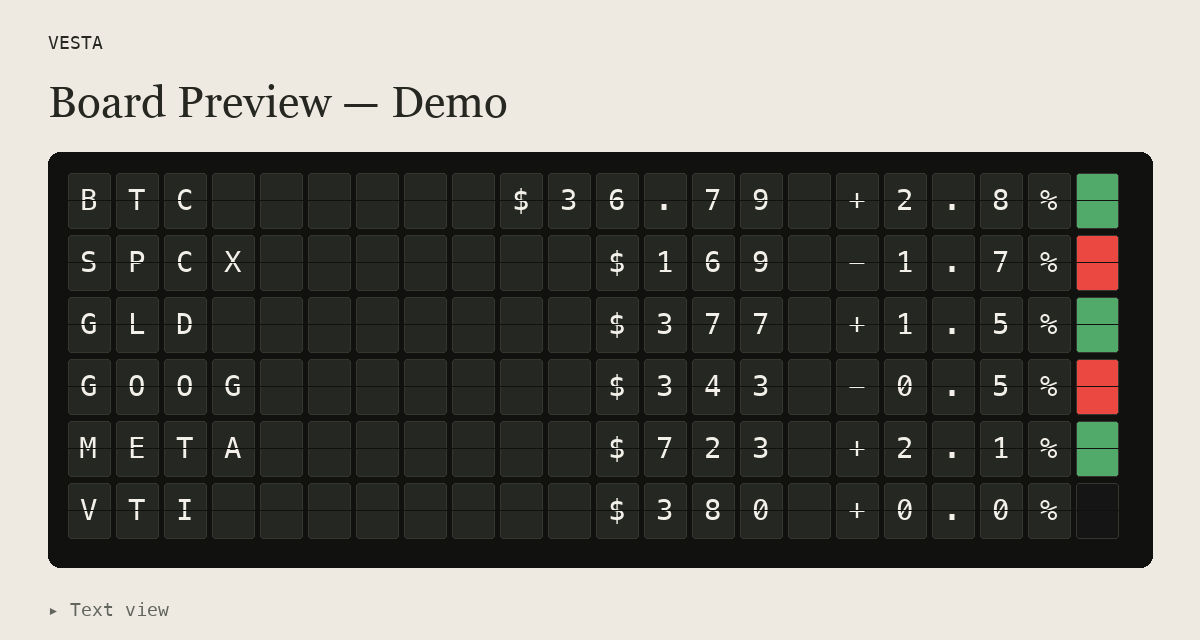
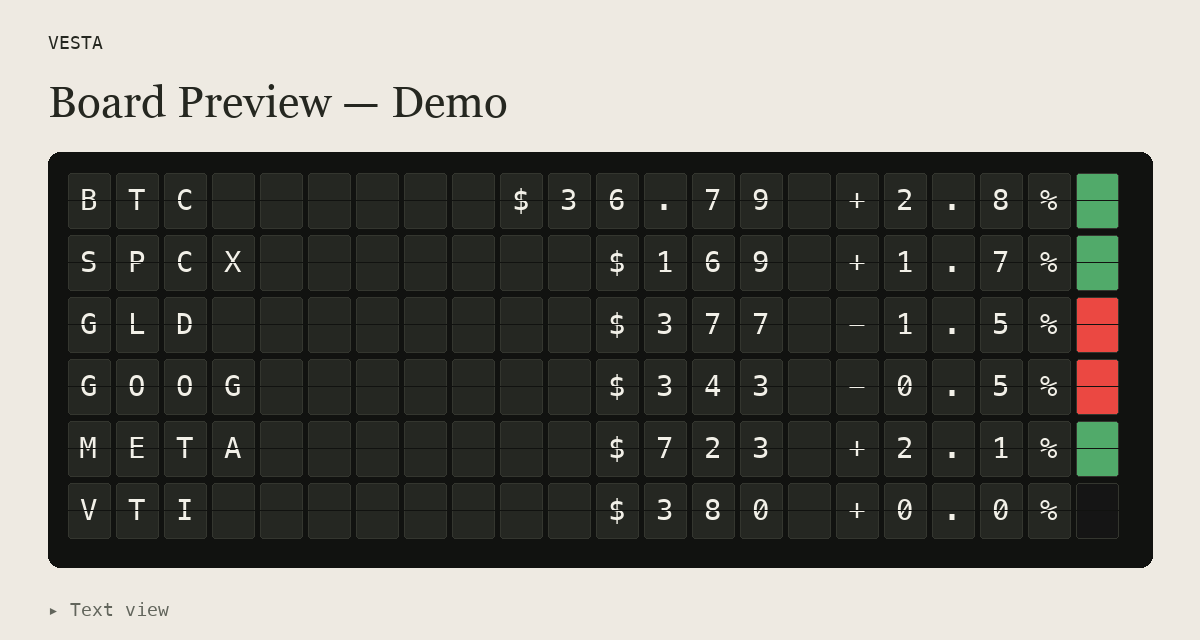
Make SPCX positive and GLD negative in the demo

Changed region(s): [[0.8942, 0.3438, 0.9558, 0.5625]]

diff --git a/src/vesta/cli.py b/src/vesta/cli.py
@@ -14,8 +14,8 @@ from vesta.prices import PriceData, PriceFetchError, RateLimitError, fetch_price
 DEFAULT_SYMBOLS = ["BTC-USD", "GLD", "GOOG"]
 DEMO_PRICES = [
     PriceData("BTC", 36.79, 2.8),
-    PriceData("SPCX", 169, -1.7),
-    PriceData("GLD", 377, 1.5),
+    PriceData("SPCX", 169, 1.7),
+    PriceData("GLD", 377, -1.5),
     PriceData("GOOG", 343, -0.5),
     PriceData("META", 723, 2.1),
     PriceData("VTI", 380, 0.0),

diff --git a/README.md b/README.md
@@ -60,7 +60,7 @@ vesta --demo --preview-file "./board preview.html"
 
 Demo mode always previews, and uses its fixed sample symbols regardless of
 `--symbols`. It never sends sample prices to the board.
-The six rows show three green squares (BTC, GLD, META), two red squares (SPCX,
+The six rows show three green squares (BTC, SPCX, META), two red squares (GLD,
 GOOG), and one black square (VTI).
 
 ![Six-instrument demo board](docs/demo-preview.png)
